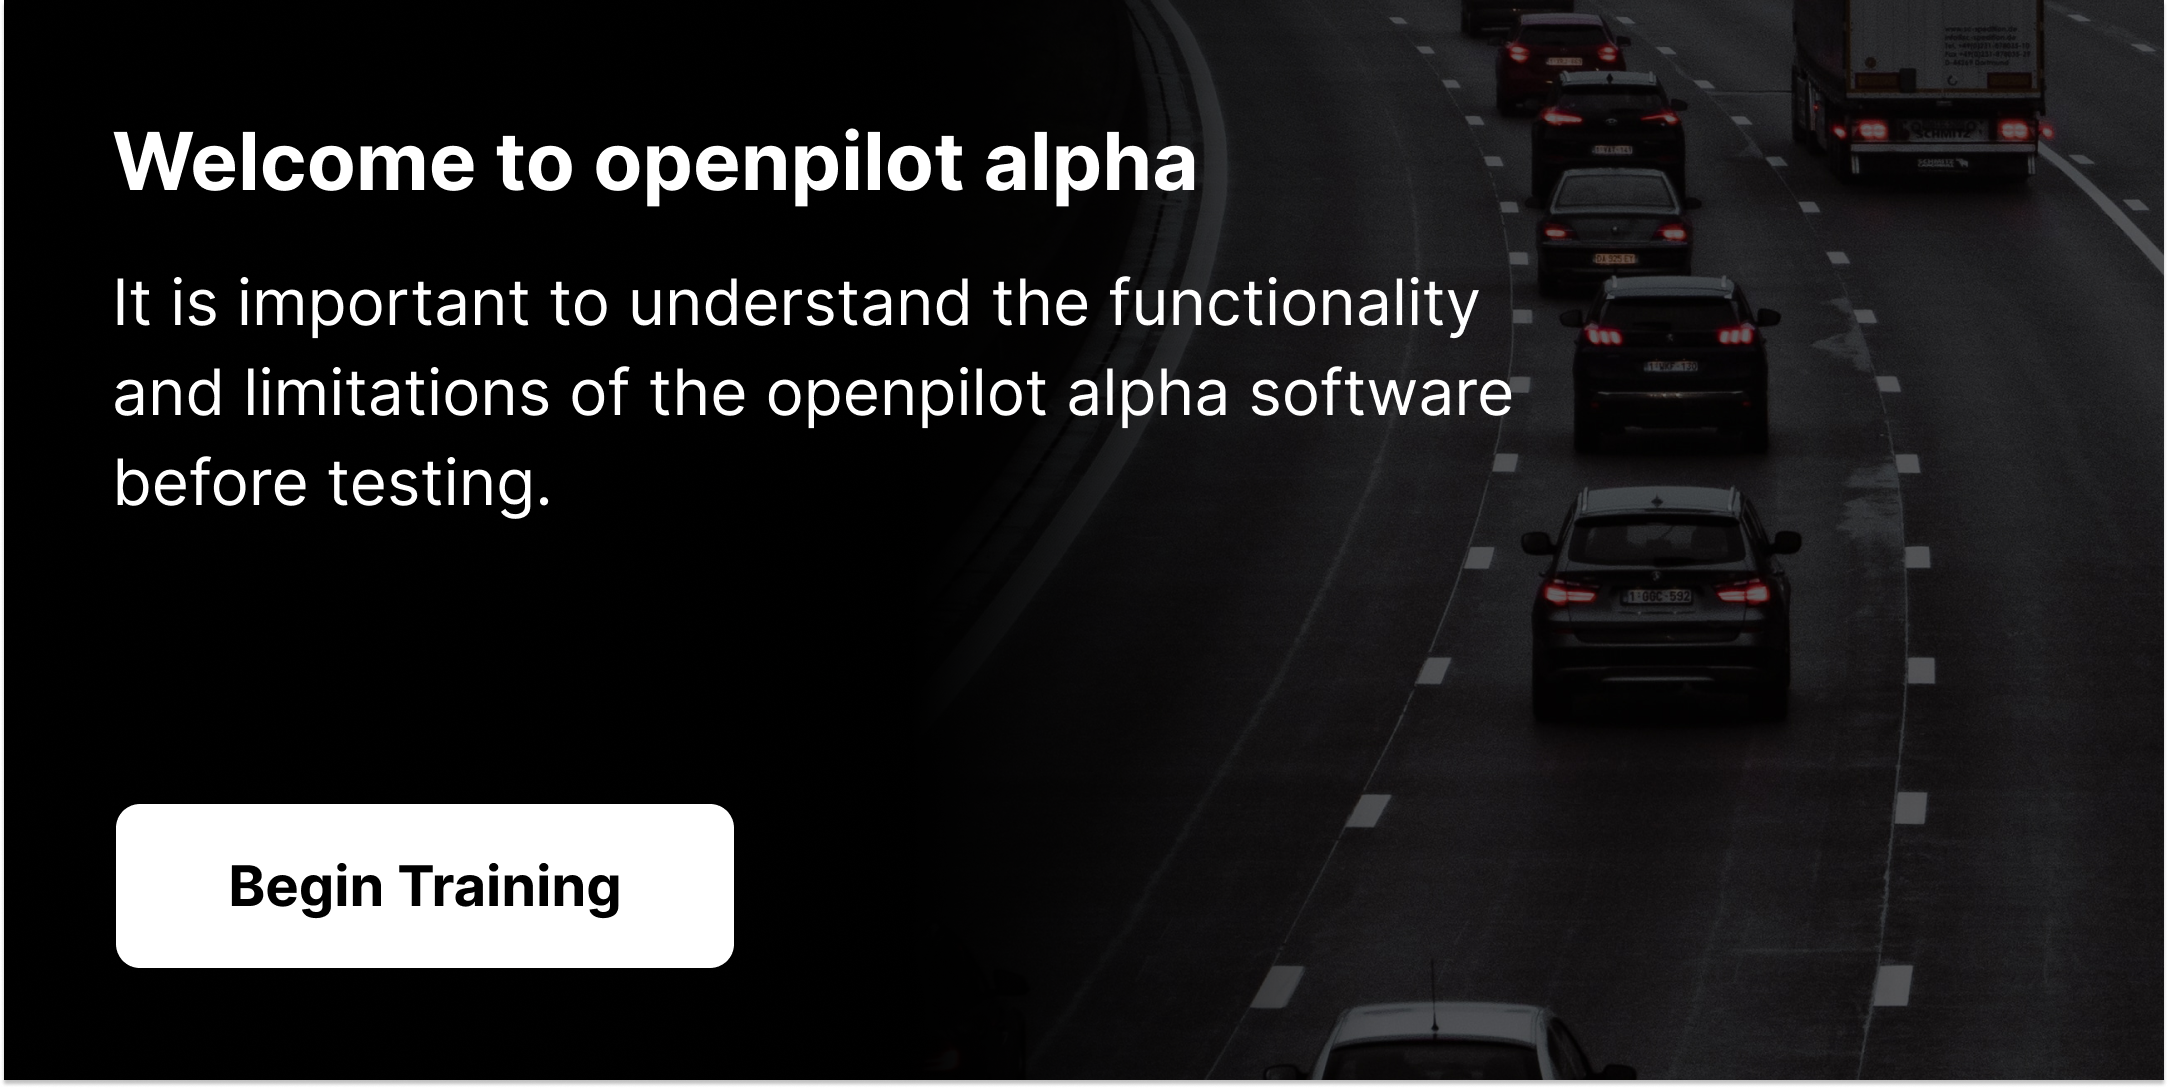
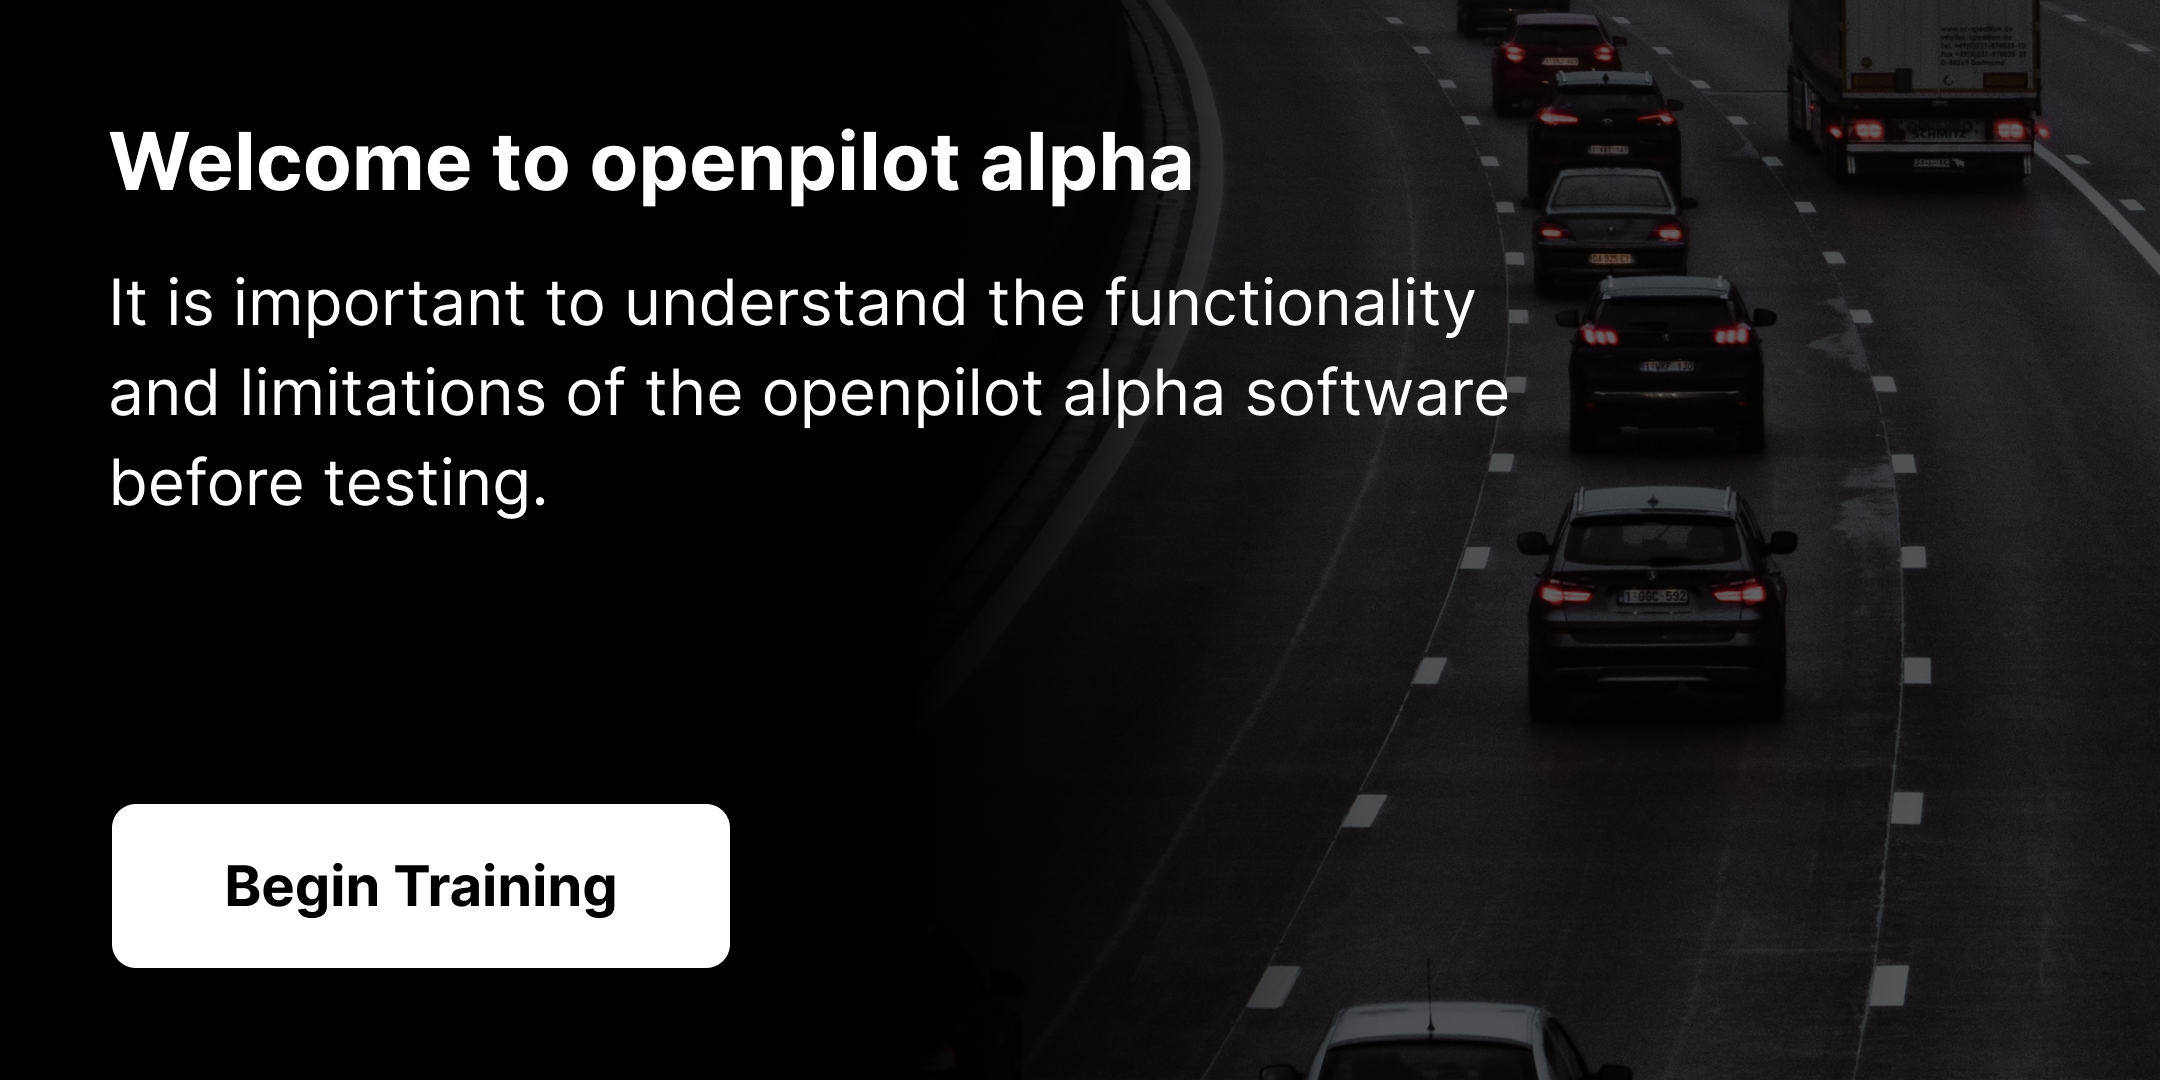
update wide images and boxes

diff --git a/selfdrive/ui/qt/offroad/onboarding.h b/selfdrive/ui/qt/offroad/onboarding.h
@@ -49,28 +49,28 @@ private:
     QRect(108, 804, 426, 164),
   };
 
-  const QRect continueBtnWide = {1844, 0, 324, 1088};
+  const QRect continueBtnWide = {1840, 0, 320, 1080};
   QVector<QRect> boundingRectWide {
-    QRect(654, 721, 718, 189),
+    QRect(112, 804, 619, 165),
     continueBtnWide,
     continueBtnWide,
-    QRect(1690, 570, 165, 300),
-    QRect(1690, 560, 133, 60),
+    QRect(1608, 558, 270, 312),  // path
+    QRect(1680, 546, 148, 73), // triangle
     continueBtnWide,
-    QRect(1820, 630, 180, 155),
-    QRect(1360, 0, 460, 620),
-    QRect(1570, 400, 375, 215),
-    QRect(167, 842, 1018, 148),
-    QRect(1610, 210, 295, 310),
+    QRect(1823, 631, 177, 154), // set
+    QRect(1350, 0, 810, 650),
+    QRect(1553, 516, 406, 112), // alert
+    QRect(112, 804, 1126, 164), // dm yesno
+    QRect(1598, 199, 316, 333),  // set speed
     continueBtnWide,
-    QRect(1555, 90, 610, 990),
+    QRect(1364, 90, 796, 990),  // steering wheel
     continueBtnWide,
-    QRect(1600, 140, 280, 790),
-    QRect(1385, 490, 750, 270),
+    QRect(1593, 114, 318, 853),  // traffic light
+    QRect(1379, 511, 391, 243), // brake pedal
     continueBtnWide,
     continueBtnWide,
-    QRect(1138, 755, 718, 189),
-    QRect(303, 755, 718, 189),
+    QRect(630, 804, 626, 164),
+    QRect(108, 804, 426, 164),
   };
 
   QString img_path;

diff --git a/selfdrive/ui/qt/offroad/onboarding.cc b/selfdrive/ui/qt/offroad/onboarding.cc
@@ -23,7 +23,7 @@ void TrainingGuide::mouseReleaseEvent(QMouseEvent *e) {
 
   if (boundingRect[currentIndex].contains(e->x(), e->y())) {
     if (currentIndex == 9) {
-      const QRect yes = QRect(642, 820, 466, 148);
+      const QRect yes = QRect(707, 804, 531, 164);
       Params().putBool("RecordFront", yes.contains(e->x(), e->y()));
     }
     currentIndex += 1;
